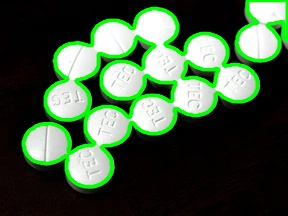
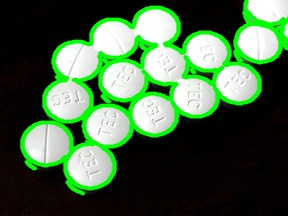
Added lots of thing

Changed region(s): [[0.0625, 0.0, 1.0, 0.9167]]

diff --git a/main.py b/main.py
@@ -1,14 +1,72 @@
 import numpy as np
 import cv2
+import matplotlib.pyplot as plt
 
-image = cv2.imread('pillexample2.jpg')
+image2 = cv2.imread('pillexample.jpg')
+image = cv2.cvtColor(image2, cv2.COLOR_BGR2HSV )
+image3 = cv2.cvtColor(image2, cv2.COLOR_BGR2HLS )
 
-gray = cv2.cvtColor(image, cv2.COLOR_BGR2GRAY)
-blurred = cv2.GaussianBlur(gray, (5, 5), 0)
+# display the image with changed contrast and brightness
+cv2.imwrite('pill_HSV.jpg', image)
+cv2.imshow('HSV', image)
+cv2.waitKey(0)
+
+cv2.imwrite('pill_HSL.jpg', image3)
+cv2.imshow('HSL', image3)
+cv2.waitKey(0)
+
+gray = cv2.cvtColor(image2, cv2.COLOR_BGR2GRAY)
+cv2.imwrite('pill_gray.jpg', gray)
+cv2.imshow('gray', gray)
+cv2.waitKey(0)
+
+grayHSV = cv2.cvtColor(image, cv2.COLOR_BGR2GRAY)
+cv2.imwrite('pill_grayHSV.jpg', grayHSV)
+cv2.imshow('grayHSV', grayHSV)
+cv2.waitKey(0)
+
+grayHSL = cv2.cvtColor(image3, cv2.COLOR_BGR2GRAY)
+cv2.imwrite('pill_grayHSL.jpg', grayHSL)
+cv2.imshow('grayHSL', grayHSL)
+cv2.waitKey(0)
+
+blur = cv2.GaussianBlur(gray,(5,5),0)
+ret3,th3 = cv2.threshold(blur,0,255,cv2.THRESH_BINARY+cv2.THRESH_OTSU)
+
+
+cv2.imwrite('pill_black_and_white.jpg', th3)
+cv2.imshow('None approximation', th3)
+cv2.waitKey(0)
+
+blurHSV = cv2.GaussianBlur(grayHSV,(5,5),0)
+ret3,th3 = cv2.threshold(blurHSV,0,255,cv2.THRESH_BINARY+cv2.THRESH_OTSU)
+
+
+cv2.imwrite('pill_black_and_whiteHSV.jpg', th3)
+cv2.imshow('None approximation', th3)
+cv2.waitKey(0)
+# plot all the images and their histograms
+
+blurHSL = cv2.GaussianBlur(grayHSL,(5,5),0)
+ret3,th3 = cv2.threshold(blurHSV,0,255,cv2.THRESH_BINARY+cv2.THRESH_OTSU)
+
+
+cv2.imwrite('pill_black_and_whiteHSL.jpg', th3)
+cv2.imshow('None approximation', th3)
+cv2.waitKey(0)
+# plot all the images and their histograms
+
+blurred = cv2.GaussianBlur(th3, (9, 9), 5)
+edges = cv2.Canny(blurred,20,50)
+
+cv2.imshow('None approximation', edges)
+cv2.waitKey(0)
 
 
 
-ret, thresh = cv2.threshold(blurred, 180, 255, cv2.THRESH_BINARY)
+
+
+ret, thresh = cv2.threshold(edges, 10, 255, cv2.THRESH_BINARY)
 
 cv2.imshow('None approximation', thresh)
 cv2.waitKey(0)
@@ -20,10 +78,32 @@ image_copy = image.copy()
 cv2.drawContours(image=image_copy, contours=contours, contourIdx=-1, color=(0, 255, 0), thickness=2,
                  lineType=cv2.LINE_AA)
 
-# see the results
 cv2.imshow('None approximation', image_copy)
 cv2.waitKey(0)
-cv2.imwrite('contours_none_image1.jpg', image_copy)
-cv2.destroyAllWindows()
 
+for contour in contours:
+    # Filter based on area to remove small noise
+    if cv2.contourArea(contour) > 10:  # You might need to adjust this threshold based on your image
+        M = cv2.moments(contour)
+
+        # Calculate the center of the contour (centroid)
+        if M["m00"] != 0:
+            cX = int(M["m10"] / M["m00"])
+            cY = int(M["m01"] / M["m00"])
+        else:
+            cX, cY = 0, 0
+
+        # Draw a red dot in the center
+        cv2.circle(image, (cX, cY), 5, (0, 0, 255), -1)
+
+# Simplified counting process
+count = sum(1 for contour in contours if cv2.contourArea(contour) > 40)
+
+# Display the count on the image
+font = cv2.FONT_HERSHEY_SIMPLEX
+cv2.putText(image, f'Pills Count: {count}', (10, 30), font, 1, (255, 0, 0), 2, cv2.LINE_AA)
+
+cv2.imshow('Detected Pills', image)
+cv2.waitKey(0)
+cv2.destroyAllWindows()
 
